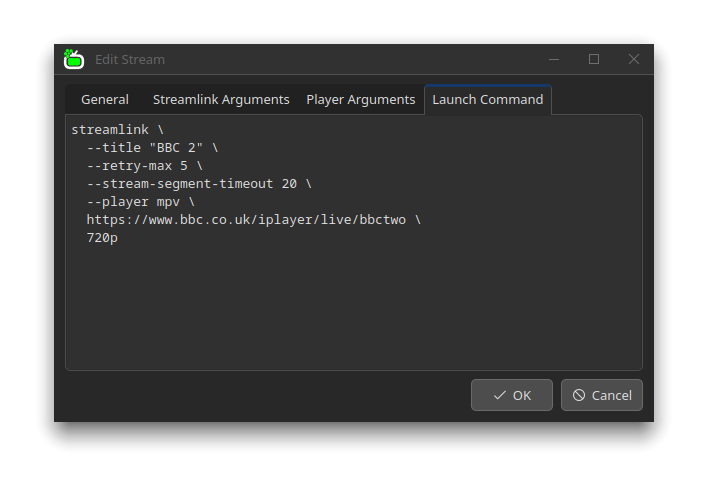
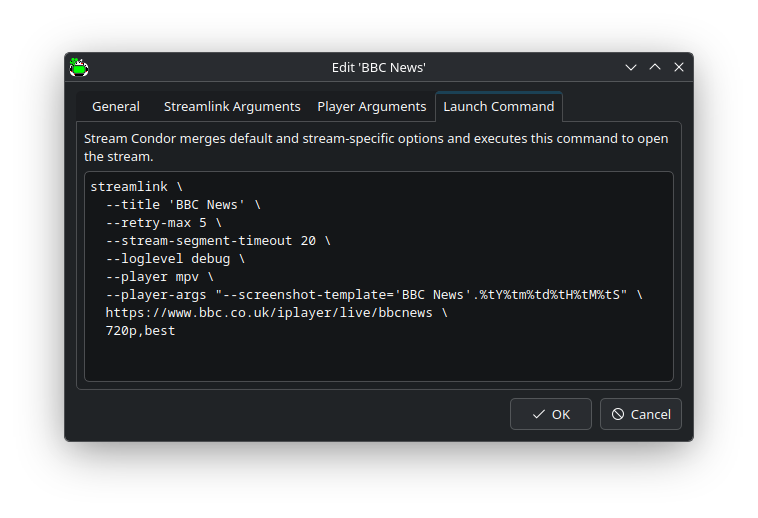
UI fixes

diff --git a/src/streamcondor/ui/settings.py b/src/streamcondor/ui/settings.py
@@ -2,7 +2,7 @@ import logging
 import time
 from datetime import datetime
 from PyQt6.QtWidgets import (
-  QWidget, QFormLayout, QVBoxLayout, QHBoxLayout, QTabWidget, QTreeView, QPushButton,
+  QWidget, QFormLayout, QVBoxLayout, QHBoxLayout, QTabWidget, QTreeView, QPushButton, QToolButton,
   QLabel, QSpinBox, QCheckBox, QComboBox, QLineEdit, QTextEdit, QSizePolicy,
   QMessageBox, QAbstractItemView
 )
@@ -23,6 +23,28 @@ except PackageNotFoundError:
   dist_ver = getattr(streamcondor, '__version__', 'dev')
 
 log = logging.getLogger(__name__)
+
+
+def _create_stream_action_button(
+  label: str,
+  handler,
+  *,
+  tooltip: str | None = None,
+  fixed_width: int | None = None,
+  fixed_height: int | None = None,
+) -> QToolButton:
+  button = QToolButton()
+  button.setText(label)
+  button.setAutoRaise(False)
+  button.setFocusPolicy(Qt.FocusPolicy.NoFocus)
+  button.clicked.connect(handler)
+  if tooltip is not None:
+    button.setToolTip(tooltip)
+  if fixed_width is not None:
+    button.setFixedWidth(fixed_width)
+  if fixed_height is not None:
+    button.setFixedHeight(fixed_height)
+  return button
 
 
 def _format_relative_time(timestamp: float | None) -> str:
@@ -304,20 +326,42 @@ class SettingsWindow(QWidget):
     self.stream_list.selectionModel().selectionChanged.connect(self._on_stream_selected)
     layout.addWidget(self.stream_list)
     # Buttons on the right side
-    self.btn_add = QPushButton('Add')
-    self.btn_add.clicked.connect(self._add_stream)
-    self.btn_edit = QPushButton('Edit')
-    self.btn_edit.clicked.connect(self._edit_stream)
-    self.btn_clone = QPushButton('Clone')
-    self.btn_clone.clicked.connect(self._clone_stream)
-    self.btn_delete = QPushButton('Delete')
-    self.btn_delete.clicked.connect(self._delete_stream)
-    self.btn_run_defp = QPushButton('Launch w/\ndefault\nplayer')
-    self.btn_run_defp.setToolTip('Launch stream with default media player')
-    self.btn_run_defp.clicked.connect(self._launch_stream_default_player)
-    self.btn_run_altp = QPushButton('Launch w/\nalternate\nplayer')
-    self.btn_run_altp.setToolTip('Launch stream with alternate media player')
-    self.btn_run_altp.clicked.connect(self._launch_stream_alternate_player)
+    self.btn_add = _create_stream_action_button(
+      'Add',
+      self._add_stream,
+      fixed_width=80,
+      fixed_height=30,
+    )
+    self.btn_edit = _create_stream_action_button(
+      'Edit',
+      self._edit_stream,
+      fixed_width=80,
+      fixed_height=30,
+    )
+    self.btn_clone = _create_stream_action_button(
+      'Clone',
+      self._clone_stream,
+      fixed_width=80,
+      fixed_height=30,
+    )
+    self.btn_delete = _create_stream_action_button(
+      'Delete',
+      self._delete_stream,
+      fixed_width=80,
+      fixed_height=30,
+    )
+    self.btn_run_defp = _create_stream_action_button(
+      'Launch\ndefault\nplayer',
+      self._launch_stream_default_player,
+      tooltip='Launch stream with default media player',
+      fixed_width=80,
+    )
+    self.btn_run_altp = _create_stream_action_button(
+      'Launch\nalternate\nplayer',
+      self._launch_stream_alternate_player,
+      tooltip='Launch stream with alternate media player',
+      fixed_width=80,
+    )
     btn_box = QVBoxLayout()
     btn_box.addWidget(self.btn_add)
     btn_box.addWidget(self.btn_edit)

diff --git a/src/streamcondor/ui/stream.py b/src/streamcondor/ui/stream.py
@@ -3,7 +3,7 @@ import platform
 import shlex
 from PyQt6.QtWidgets import (
   QDialog, QVBoxLayout, QHBoxLayout, QTabWidget, QLabel, QLineEdit, QDialogButtonBox, QFormLayout,
-  QCheckBox, QTextEdit, QPushButton, QWidget, QApplication
+  QCheckBox, QTextEdit, QPushButton, QToolButton, QWidget, QApplication
 )
 from PyQt6.QtCore import Qt
 from PyQt6.QtGui import QFont, QIcon
@@ -104,9 +104,31 @@ class StreamDialog(QDialog):
     # Media player
     self.text_player = QLineEdit()
     self.text_player.setPlaceholderText('Leave blank for default')
+    self.clear_player = QToolButton()
+    self.clear_player.setIcon(QIcon.fromTheme("edit-clear"))
+    self.clear_player.setToolTip('Clear custom media player')
+    self.clear_player.clicked.connect(lambda: self.text_player.clear())
+    player_box = QHBoxLayout()
+    player_box.addWidget(self.text_player)
+    player_box.addWidget(self.clear_player)
     # Preferred quality
+    self.best_quality = QToolButton()
+    self.best_quality.setText('Best')
+    self.worst_quality = QToolButton()
+    self.worst_quality.setText('Worst')
+    self.clear_quality = QToolButton()
+    self.clear_quality.setToolTip('Clear preferred quality')
+    self.clear_quality.setIcon(QIcon.fromTheme("edit-clear"))
     self.text_quality = QLineEdit()
-    self.text_quality.setPlaceholderText('e.g., best, 720p (leave blank for default)')
+    self.text_quality.setPlaceholderText('e.g. 1080p, 720p (leave blank for default)')
+    self.best_quality.clicked.connect(lambda: self.text_quality.setText('best'))
+    self.worst_quality.clicked.connect(lambda: self.text_quality.setText('worst'))
+    self.clear_quality.clicked.connect(lambda: self.text_quality.clear())
+    quality_box = QHBoxLayout()
+    quality_box.addWidget(self.best_quality)
+    quality_box.addWidget(self.worst_quality)
+    quality_box.addWidget(self.text_quality)
+    quality_box.addWidget(self.clear_quality)
     # Notify toggle
     self.check_notify = QCheckBox()
     self.check_notify.stateChanged.connect(self._update_notify_descr)
@@ -122,8 +144,8 @@ class StreamDialog(QDialog):
     form_layout.addRow('Stream URL', url_box)
     form_layout.addRow('Stream type', self.text_type)
     form_layout.addRow('Display name', self.text_name)
-    form_layout.addRow('Media player', self.text_player)
-    form_layout.addRow('Preferred quality', self.text_quality)
+    form_layout.addRow('Media player', player_box)
+    form_layout.addRow('Preferred quality', quality_box)
     form_layout.addRow('Notify when live', self.check_notify)
     form_layout.addRow('Always streaming', self.check_always_on)
     widget = QWidget()
@@ -153,8 +175,12 @@ class StreamDialog(QDialog):
     return widget
 
   def _create_preview_tab(self) -> QWidget:
-    top_label = QLabel('This is the command that will be executed to launch the stream:')
+    top_label = QLabel(
+      'Stream Condor merges default and stream-specific options '
+      'and executes this command to open the stream.'
+    )
     top_label.setStyleSheet('font-size: 10pt;')
+    top_label.setWordWrap(True)
     self.text_preview = QTextEdit()
     self.text_preview.setReadOnly(True)
     self.text_preview.setFont(MONOSPACE_FONT)

diff --git a/test/test_ui_settings_pytest.py b/test/test_ui_settings_pytest.py
@@ -56,6 +56,7 @@ from pathlib import Path
 from streamcondor.model import Stream
 
 from PyQt6.QtCore import Qt
+from PyQt6.QtWidgets import QToolButton
 
 
 def _make_cfg(tmp_path):
@@ -99,3 +100,31 @@ def test_settings_load_and_toggle_stream_notify(qtbot, tmp_path, monkeypatch):
     monkeypatch.setattr(cfg, 'save', fake_save)
     assert model.setData(index_stream, None, Qt.ItemDataRole.CheckStateRole)
     assert saved['called']
+
+
+def test_stream_action_toolbutton_click_keeps_selection(qtbot, tmp_path):
+    cfg = _make_cfg(tmp_path)
+    from streamcondor.ui.settings import SettingsWindow
+    from unittest.mock import patch
+
+    win = SettingsWindow(cfg)
+    qtbot.addWidget(win)
+    win.show()
+
+    model = win.stream_model
+    index_group = model.index(0, 0)
+    index_stream = model.index(0, 0, index_group)
+    assert index_stream.isValid()
+
+    win.stream_list.setCurrentIndex(index_stream)
+    selection_model = win.stream_list.selectionModel()
+    assert len(selection_model.selectedRows()) == 1
+    assert isinstance(win.btn_edit, QToolButton)
+    assert win.btn_edit.focusPolicy() == Qt.FocusPolicy.NoFocus
+
+    with patch('streamcondor.ui.settings.StreamDialog') as mock_dialog:
+        mock_dialog.return_value.exec.return_value = False
+        qtbot.mouseClick(win.btn_edit, Qt.MouseButton.LeftButton)
+
+    assert len(selection_model.selectedRows()) == 1
+    assert selection_model.currentIndex() == index_stream